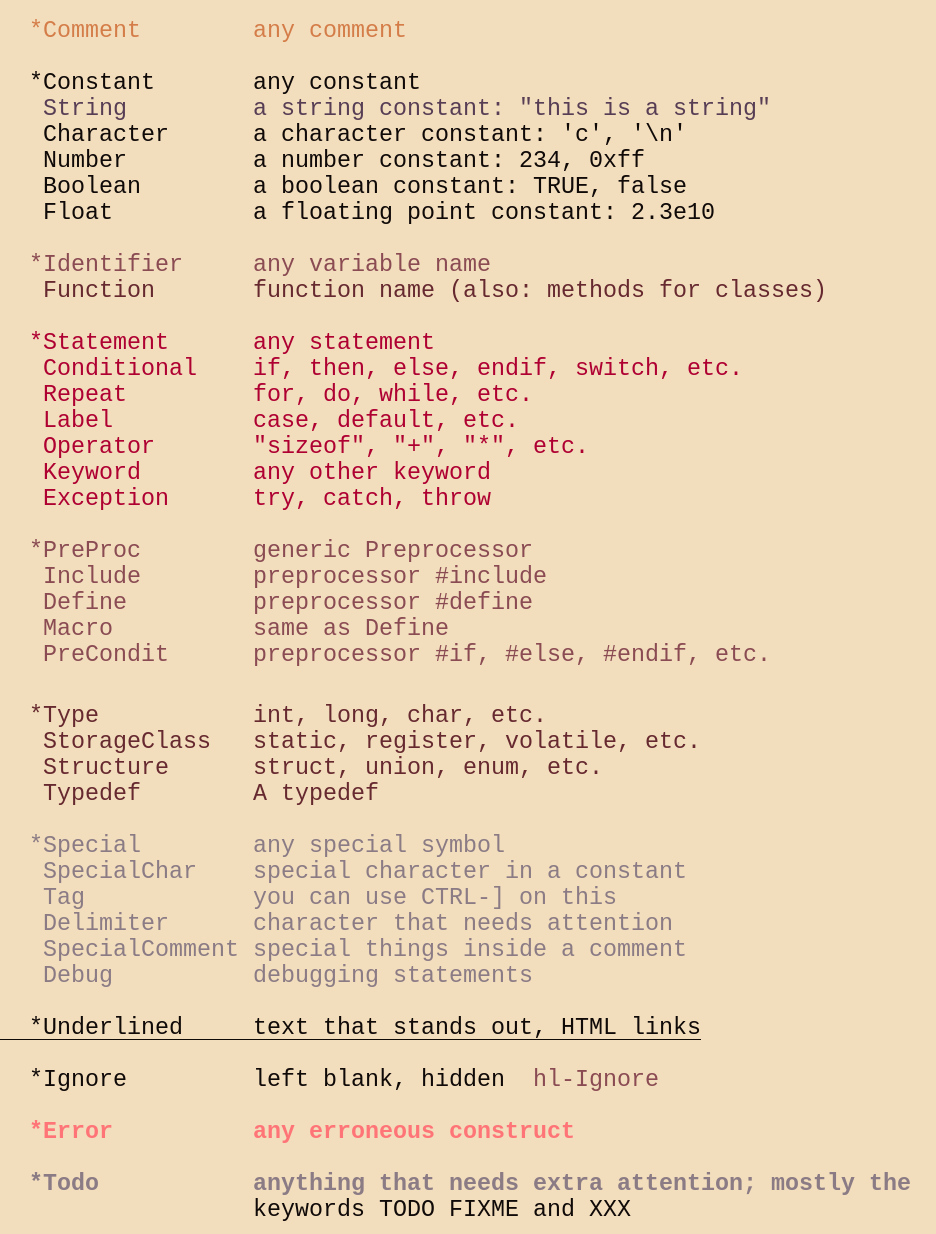
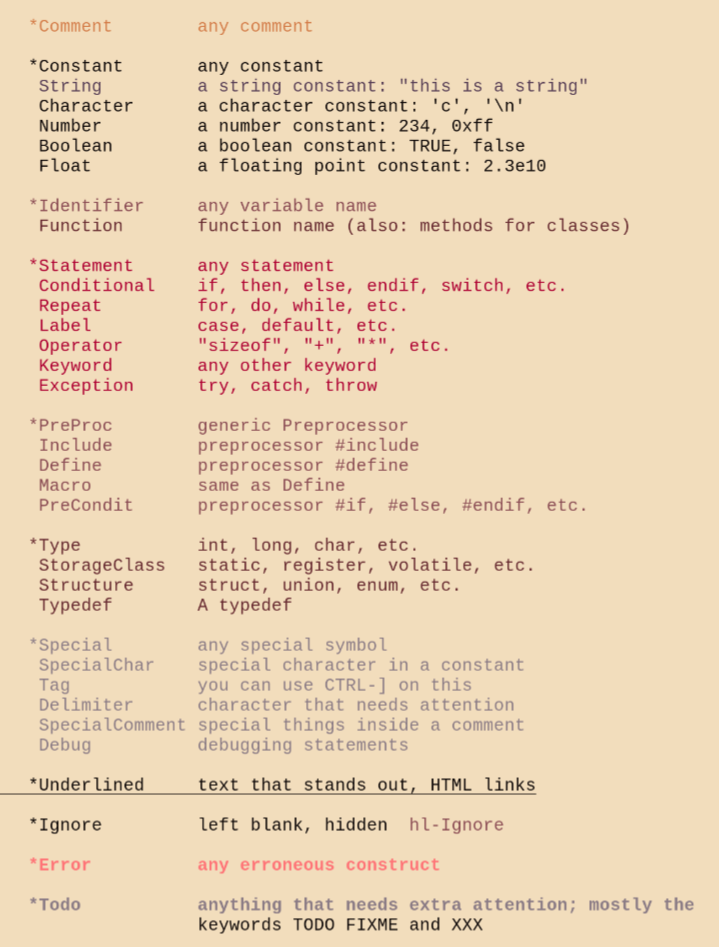
docs: Update screenshots

diff --git a/CHANGELOG.md b/CHANGELOG.md
@@ -10,6 +10,11 @@ backwards-incompatible (in hindsight, that should have been a v2 release...)
 The format is based on [Keep a Changelog](https://keepachangelog.com/en/1.0.0/),
 and this project adheres to [Semantic Versioning](https://semver.org/spec/v2.0.0.html).
 
+## [1.5.1] : 2022-03-15
+
+### Fixed
+- Update screenshots in README and github wiki
+
 ## [1.5.0] : 2022-03-14
 
 ### Changed
